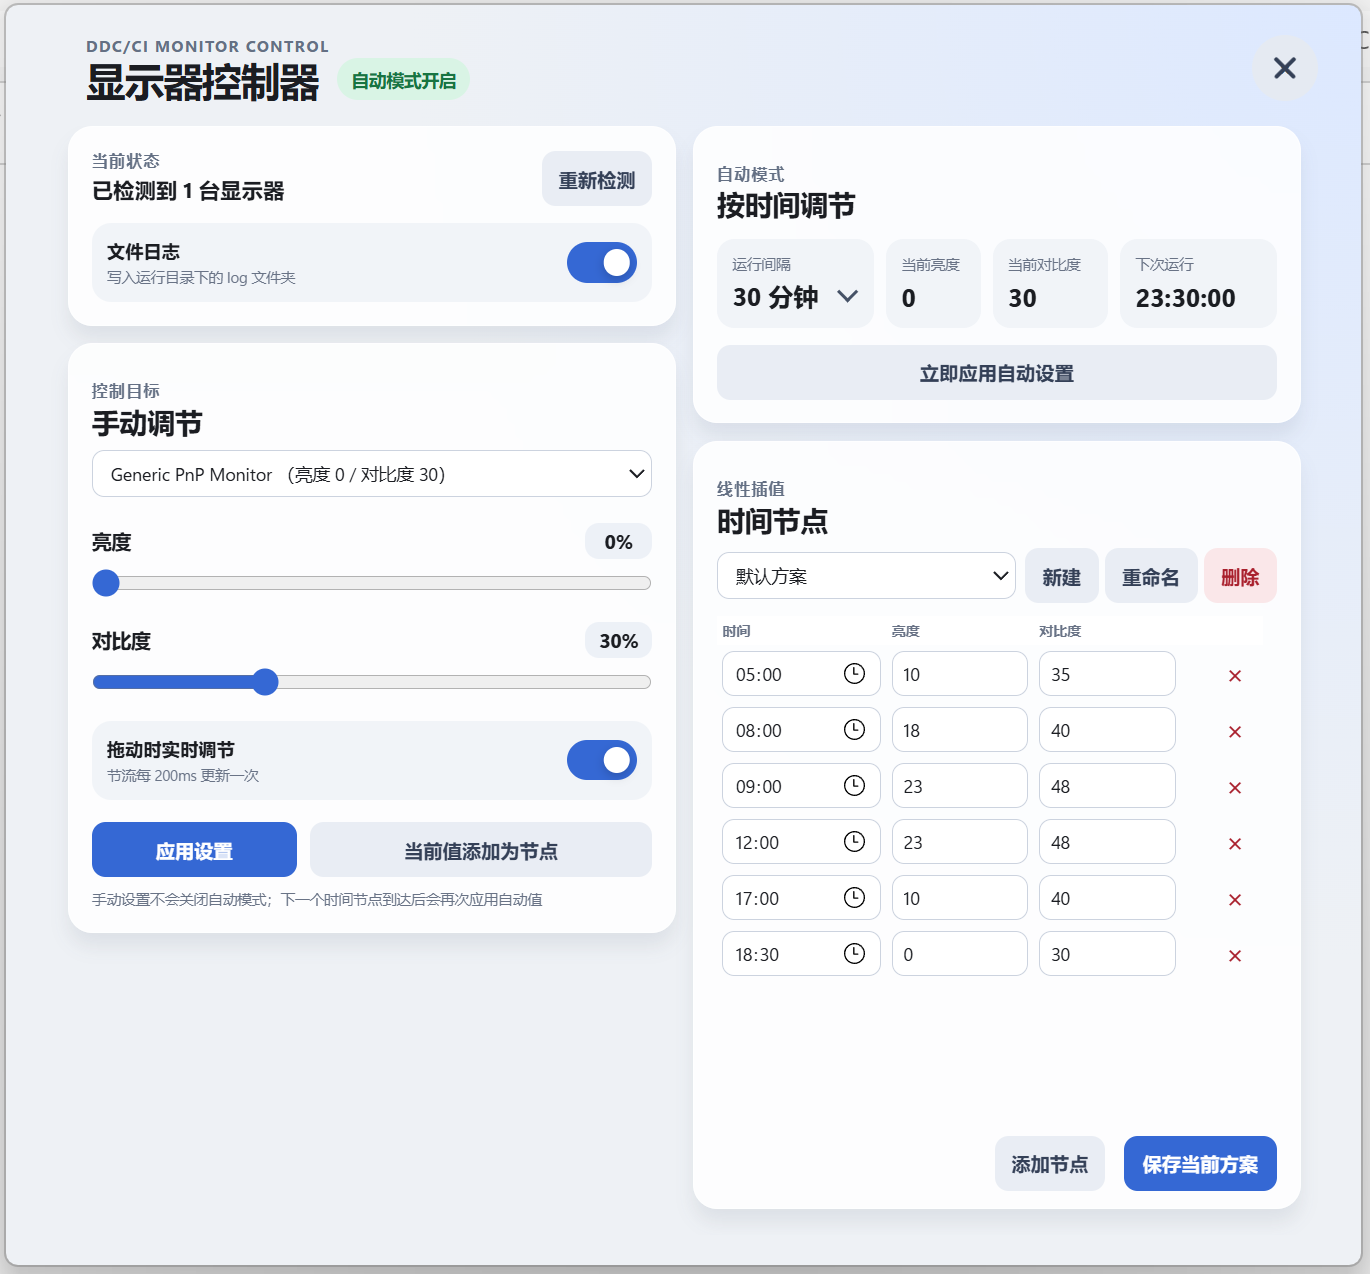
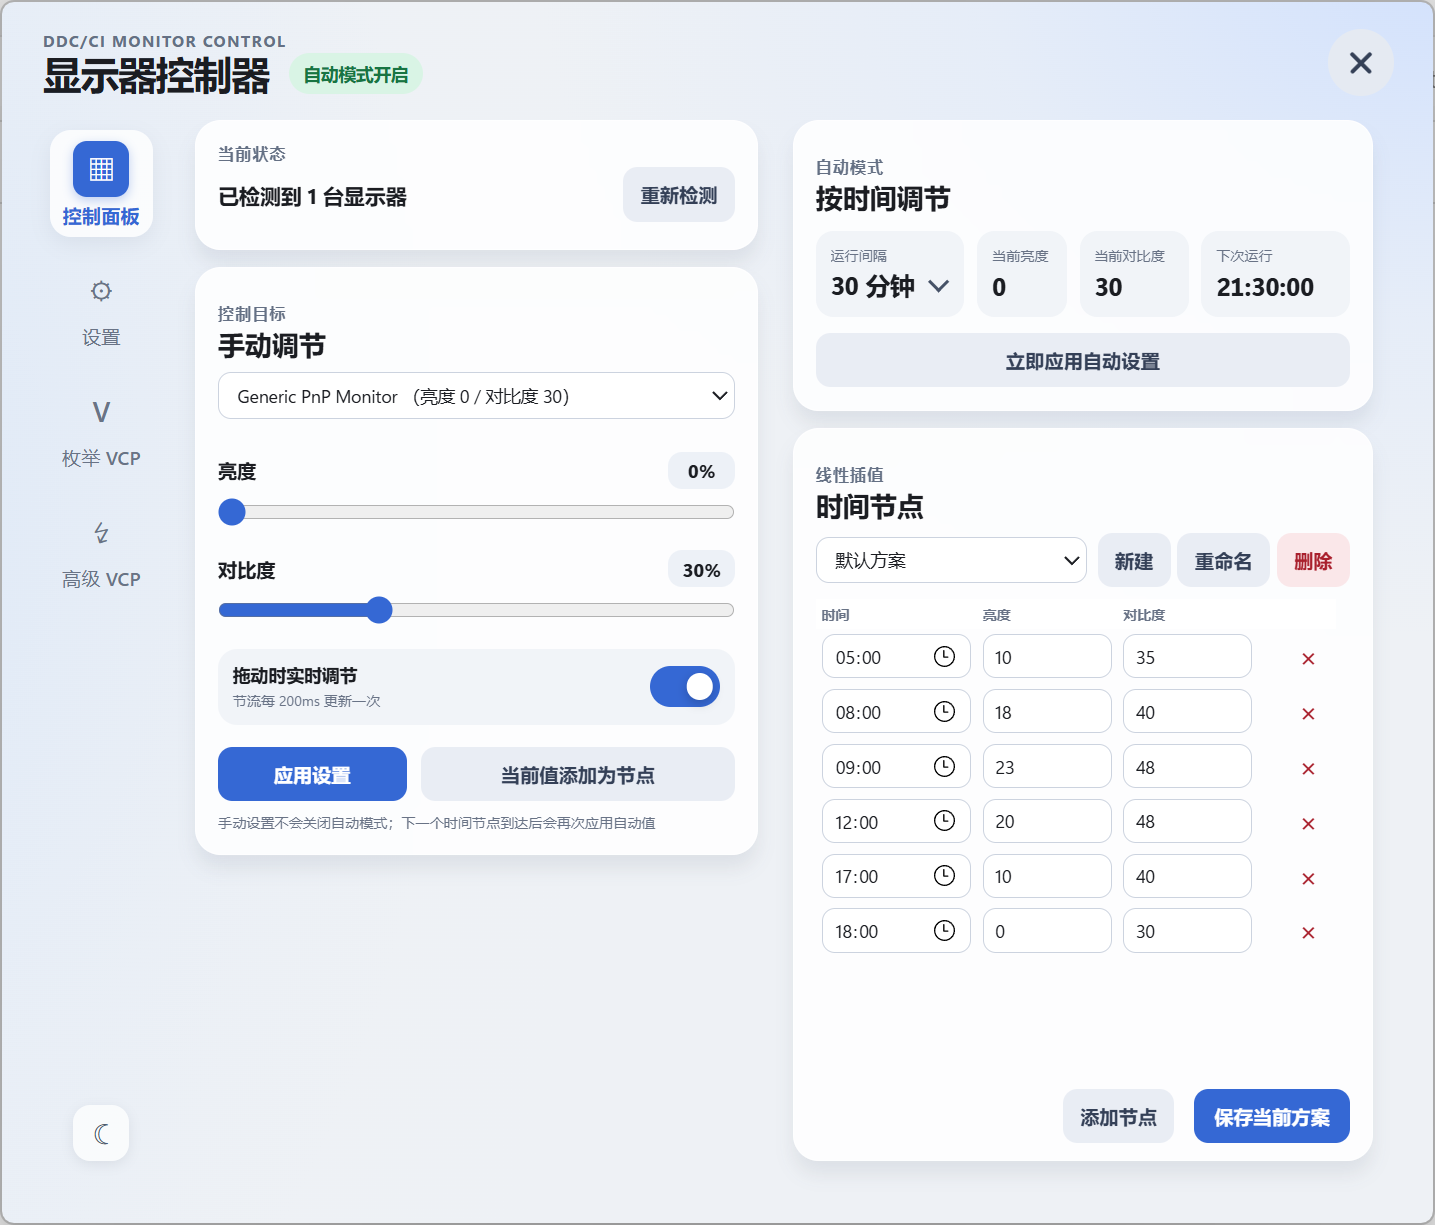
v0.1.0

diff --git a/README.md b/README.md
@@ -1,6 +1,6 @@
 # DDC Monitor Controller
 
-一款轻量级 Windows 显示器 DDC/CI 控制工具，提供图形化操作界面，支持手动和自动调节显示器亮度与对比度
+一款轻量级 Windows 显示器 DDC/CI 控制工具，提供图形化操作界面，支持手动/自动调节显示器亮度与对比度、枚举显示器 VCP Capabilities、高级 VCP 读写以及基于全局快捷键的快捷命令
 
 GitHub: <https://github.com/DreamNya/DDC-Monitor-Controller>
 
@@ -14,10 +14,29 @@ GitHub: <https://github.com/DreamNya/DDC-Monitor-Controller>
 * 支持多显示器控制
   * 可自由切换当前控制的显示器
   * 支持调节显示器亮度和对比度
+  * 高级 VCP 快捷命令按显示器绑定，目标显示器离线时命令不可用
 * 支持自动调节模式
   * 可自由添加和删除时间节点
   * 可为不同时间节点设置亮度和对比度
   * 支持创建多套自动设置方案并随时切换
+  * 可配置自动模式运行间隔和目标显示器
+* 支持 VCP Capabilities 枚举
+  * 读取选中显示器的 DDC/CI Capabilities String
+  * 自动解析 `vcp(...)` 中声明的 VCP Code 及离散支持值
+  * 支持批量读取已枚举 VCP 的当前值
+  * 提供格式化后的 Raw Capabilities 查看区域
+* 支持高级 VCP 操作
+  * 提供亮度/对比度相对百分比调节
+  * 提供亮度/对比度绝对值写入
+  * 支持切换输入源和电源模式
+  * 支持自定义读取或写入任意 `0x00 ~ 0xFF` VCP Code
+* 支持高级 VCP 快捷命令
+  * 可将高级 VCP 操作保存为按显示器分组的快捷命令
+  * 支持为快捷命令配置系统级全局快捷键
+* 界面设置
+  * 支持亮色 / 暗色主题
+  * 支持分别调整快速设置与详细设置面板缩放比例
+  * 支持调整默认文字大小
 
 ## 界面预览
 
@@ -29,9 +48,11 @@ GitHub: <https://github.com/DreamNya/DDC-Monitor-Controller>
 ![详细设置](doc/image/control.png)
 <p align="center"><sub>▲ 详细设置界面</sub></p>
 
+![详细设置-高级VCP](doc/image/control-advanced.png)
+<p align="center"><sub>▲ 详细设置-高级VCP界面</sub></p>
+
 ## TODO
 
-* [ ] 更多 DDC/CI 功能
 * [ ] 自动配置开机启动或计划任务
 * [ ] 自动获取日出、日落时间，并作为方案的初始和末尾时间节点
 * [ ] 时间节点之间的非线性变化
@@ -41,9 +62,9 @@ GitHub: <https://github.com/DreamNya/DDC-Monitor-Controller>
 * Windows x64
 * 显示器支持并已开启 DDC/CI
 * Microsoft Edge WebView2 Runtime
-* Node.js >= v24 （*可选，Portable Release 已附带 Node.js Runtime，无需单独安装）
+* Node.js >= v24（可选，Portable Release 已附带 Node.js Runtime，无需单独安装）
 
-> 不同品牌和型号的显示器对 DDC/CI 的支持程度可能存在差异；部分显示器需要在 OSD 菜单中手动开启 DDC/CI
+> 不同品牌和型号的显示器对 DDC/CI / MCCS 的支持程度可能存在差异；部分显示器需要在 OSD 菜单中手动开启 DDC/CI
 
 ## 使用方法
 
@@ -66,14 +87,14 @@ https://wwbwh.lanzouw.com/b01d75e9of
 
 ### 版本说明
 
-| 版本 | 是否包含 Node.js Runtime | 适用场景
-| ---- | ---- | ----
-| portable | 是 | 文件体积较大，无需额外安装 Node.js 运行时
-| noRuntime | 否 | 文件体积较小，仅包含必要文件
+| 版本 | 是否包含 Node.js Runtime | 适用场景 |
+| ---- | ---- | ---- |
+| portable | 是 | 文件体积较大，无需额外安装 Node.js 运行时 |
+| noRuntime | 否 | 文件体积较小，仅包含必要文件 |
 
 > *不同版本仅影响解压后的文件体积，不影响实际内存占用
 >
-> **所有版本均不包含 WebView2 Runtime，如果不存在建议安装 Microsoft Edge 或单独安装包
+> **所有版本均不包含 WebView2 Runtime**，如果系统中不存在，建议安装 Microsoft Edge 或单独安装 WebView2 Runtime
 
 ### 启动
 
@@ -81,7 +102,7 @@ https://wwbwh.lanzouw.com/b01d75e9of
 
 程序启动后会常驻系统托盘
 
-（可将`DDCMonitorController.exe`添加到系统启动项或计划任务以支持开机自动启动）
+（可将 `DDCMonitorController.exe` 添加到系统启动项或计划任务以支持开机自动启动）
 
 ### 快速设置
 
@@ -96,7 +117,9 @@ https://wwbwh.lanzouw.com/b01d75e9of
 
 ### 详细设置
 
-详细设置面板支持：
+详细设置面板通过侧边栏提供 `控制面板`、`设置`、`枚举 VCP`、`高级 VCP` 等功能
+
+#### 控制面板
 
 * 调节自动模式运行间隔
 * 开启或关闭自动调节
@@ -106,9 +129,58 @@ https://wwbwh.lanzouw.com/b01d75e9of
 * 选择自动调节的目标显示器
 * 拖动标题栏改变窗口位置
 * 拖动窗口边缘改变窗口大小
-* 修改快速设置面板、详细设置面板缩放比例
 
 > 目前时间节点暂不支持手动排序；保存方案后，程序会按照时间自动排序
+
+#### 枚举 VCP
+
+1. 选择需要检查的显示器
+2. 点击 `枚举 VCP`，读取显示器 Capabilities
+3. 程序会解析显示器声明支持的 VCP Code 和离散值，并显示在表格中
+4. 点击 `读取 VCP`，批量读取当前已枚举 VCP 的当前值
+5. 点击任意表格单元格可将内容复制到剪贴板
+6. 展开 `Raw Capabilities` 可查看格式化后的原始 Capabilities String
+
+> Capabilities 中声明某个 VCP Code，并不一定代表该 Code 可以通过标准 `Get VCP Feature` 正常读取；部分厂商私有 VCP 或固件实现不完整的功能可能返回“不支持”或其他 DDC/CI 错误
+
+#### 高级 VCP
+
+高级 VCP 面板允许先选择一台具体显示器，再执行以下操作：
+
+* **预设功能**
+  * 亮度 / 对比度增加或减少指定百分比
+    * 默认 VCP Code：亮度 `0x10`、对比度 `0x12`
+    * 百分比调节会根据显示器返回的 `maximum` 计算步长
+    * 最终写入值限制在 `0 ~ maximum`
+    * 即使当前值已经处于 `0` 或 `maximum`，再次执行仍会发送一次 VCP 写入
+  * 亮度 / 对比度写入指定数值
+  * 切换输入源（默认 VCP Code `0x60`）
+  * 切换电源模式（默认 VCP Code `0xD6`）
+  * 所有预设 VCP Code 均可由用户自行修改
+* **RAW VCP**
+  * 支持输入任意 VCP Code 进行读取
+  * 支持输入任意 VCP Code 和 Value 进行写入
+  * 除相对百分比调节外，程序不会根据显示器型号对用户填写的 Value 进行范围兜底或自动修正
+
+##### 快捷命令与全局快捷键
+
+高级 VCP 操作可以保存为快捷命令：
+
+* 快捷命令绑定保存时选中的具体显示器
+* 命令列表按显示器分组展示
+* 目标显示器离线时，快捷命令不可执行
+* 可为快捷命令配置可选的系统级全局快捷键
+* 全局快捷键通过 Win32 `RegisterHotKey` 注册，因此 Control Panel / WebView 已关闭时仍然有效
+* 本程序内部快捷键重复时，会提示占用该组合键的快捷命令
+* 如果快捷键已被 Windows 或其他应用注册，系统只能返回“快捷键已被占用”，无法可靠获知具体外部占用程序
+
+#### 设置
+
+* 切换亮色 / 暗色主题
+* 修改快速设置面板缩放比例
+* 修改详细设置面板缩放比例
+* 修改默认文字大小
+* 查看或打开日志目录等程序设置
 
 ### 数据存储
 
@@ -118,9 +190,11 @@ https://wwbwh.lanzouw.com/b01d75e9of
 %LOCALAPPDATA%\DDCMonitorController
 ```
 
+> 高级 VCP 快捷命令及其全局快捷键配置会随程序设置一并持久化保存
+
 **日志文件：**
 
-日志文件保存在程序所在目录`log`文件夹中
+日志文件保存在程序所在目录 `log` 文件夹中
 
 ## 开发
 
@@ -129,8 +203,8 @@ https://wwbwh.lanzouw.com/b01d75e9of
 * Node.js
 * TypeScript
 * WebView2
-* DDC/CI
-* Windows Native DLL
+* DDC/CI / MCCS
+* Windows Native DLL / Node-API Addon
 
 ### 架构说明
 
@@ -139,22 +213,31 @@ https://wwbwh.lanzouw.com/b01d75e9of
 #### 总体原则
 
 * **C++ 负责 Windows / 硬件相关的底层能力**
+  * 物理显示器枚举与 DDC/CI VCP 读写
+  * Capabilities String 获取
+  * WebView2 / Win32 窗口能力
+  * 系统级全局快捷键注册
 * **TypeScript 负责应用业务逻辑与状态管理**
-* **HTML 负责界面展示与用户交互**
-* 各层通过明确的 Native Addon / WebMessage RPC 边界通信，避免业务逻辑与桥接逻辑耦合
+  * 显示器状态缓存与自动调节
+  * Capabilities / VCP 数据解析
+  * 高级 VCP 命令与快捷命令管理
+  * 前后端 RPC 和配置持久化
+* **HTML / CSS / TypeScript Renderer 负责界面展示与用户交互**
+
+> 各层通过明确的 Native Addon / WebMessage RPC 边界通信，避免业务逻辑与桥接逻辑耦合
 
 #### 目录结构
 
 ```text
 native/
 ├─ Launcher/         Windows 启动器
-├─ WebViewNative/    WebView2 / Win32 桥接层
-└─ MonitorNative/    DDC/CI 桥接层
+├─ WebViewNative/    WebView2 / Win32 / 全局快捷键桥接层
+└─ MonitorNative/    DDC/CI VCP / Capabilities 桥接层
 
 src/
 ├─ main/             Node.js 后端业务层
 ├─ renderer/         WebView2 前端 UI
-└─ shared/           前后端共享类型、模型与 RPC 契约
+└─ shared/           前后端共享类型、模型、VCP 工具与 RPC 契约
 ```
 
 ### 克隆项目
@@ -168,6 +251,13 @@ cd ddc-monitor-controller
 
 ```bash
 npm install
+```
+
+### 类型/语法检查
+
+```bash
+tsc --noEmit
+npx eslint .
 ```
 
 ### 编译 DDC/CI 原生模块
